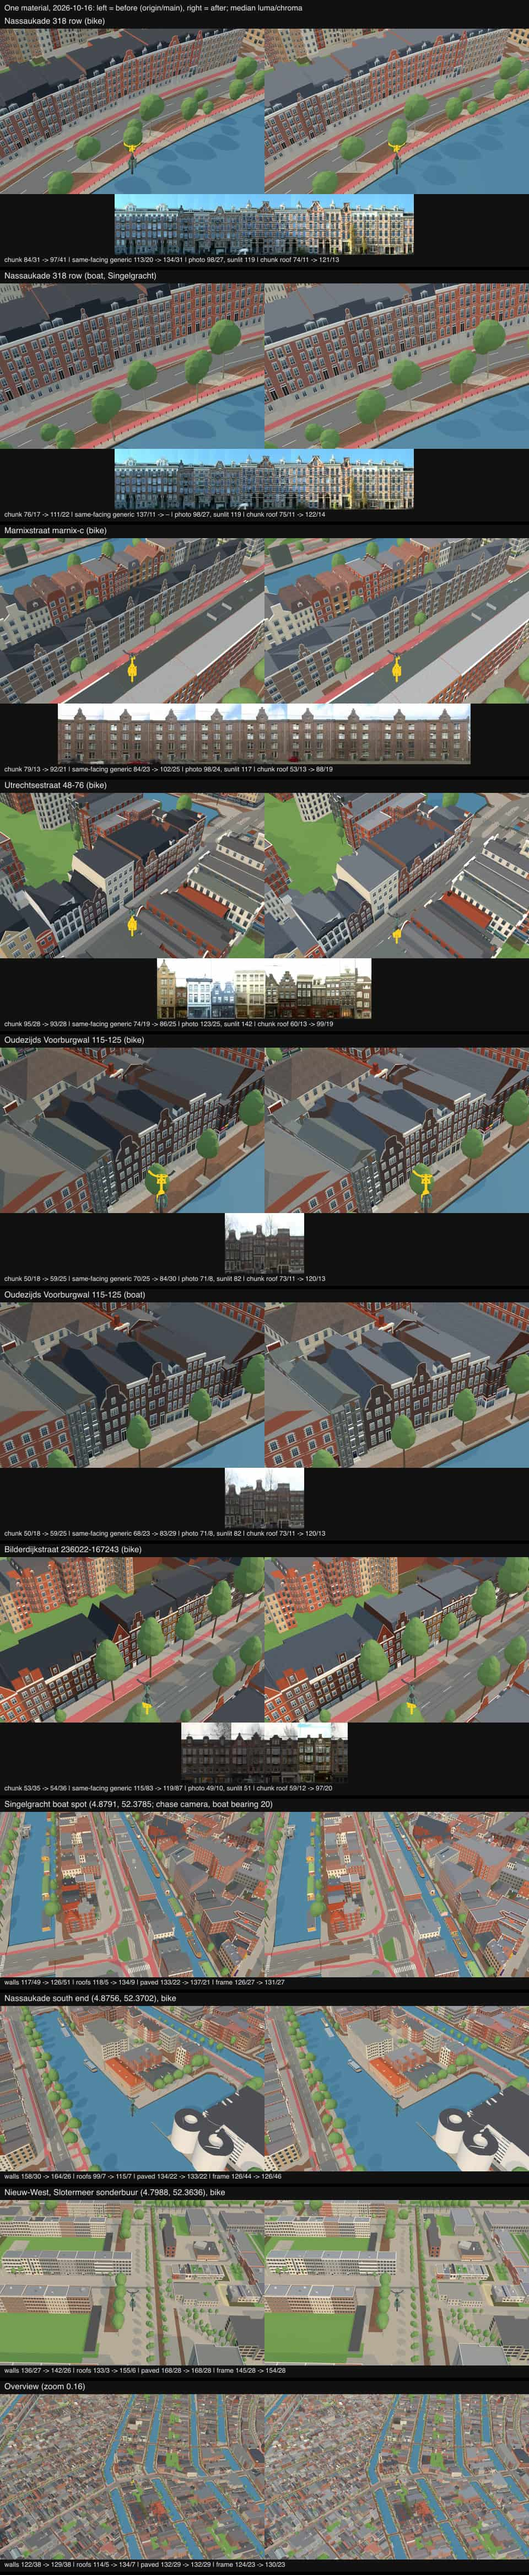
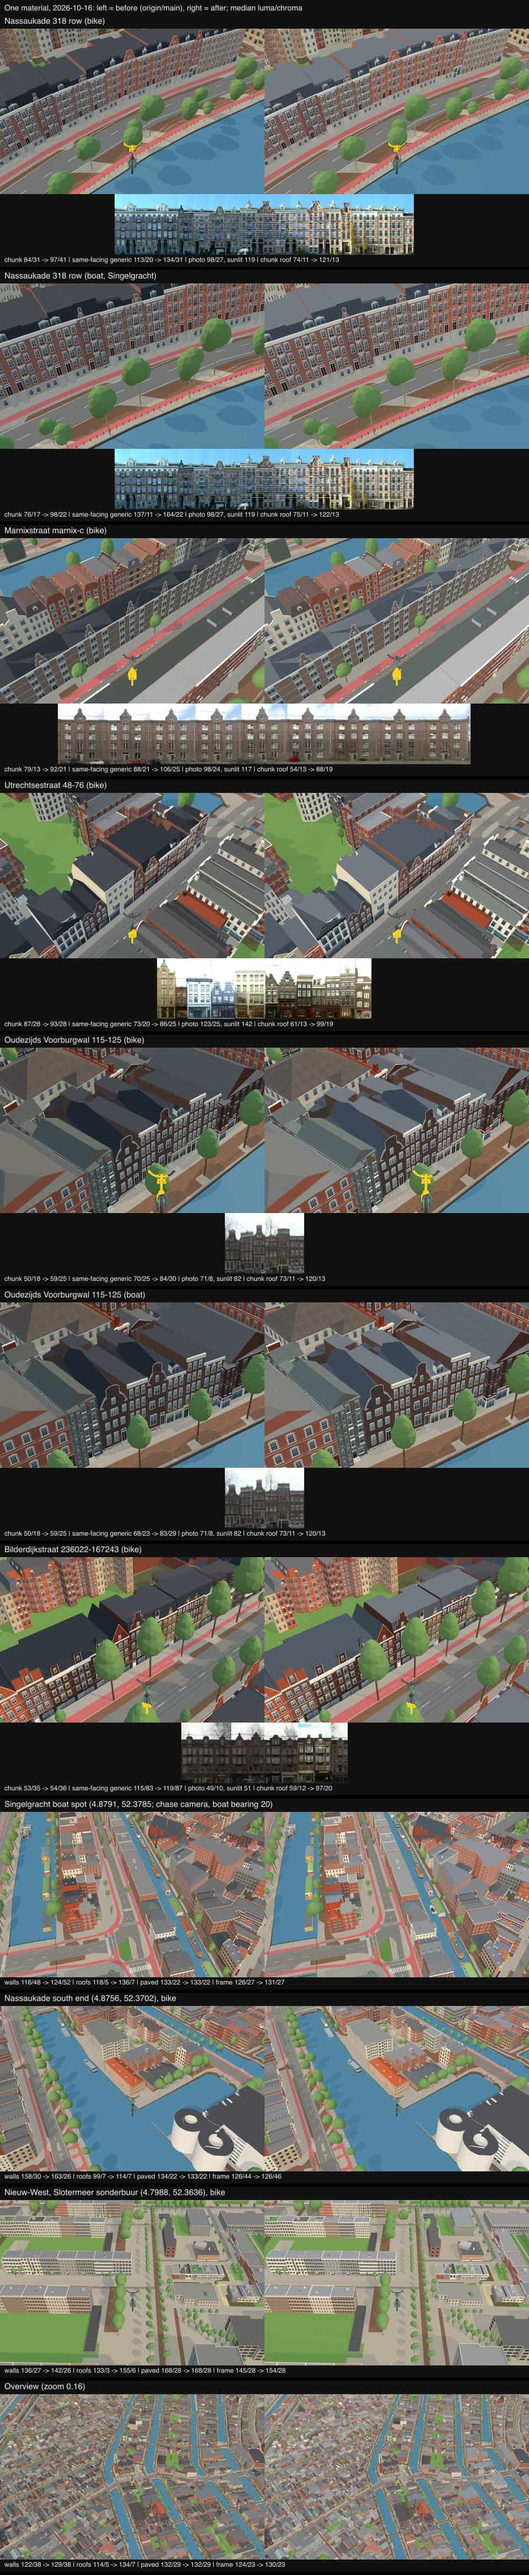
One material: frames and ride perf re-taken under the shared browser lock; doc and sheet updated

diff --git a/docs/one-material-20261016.md b/docs/one-material-20261016.md
@@ -76,15 +76,19 @@ luma × the strip's white gain (sRGB): the wall's colour in sun, facing the sun.
 | view | chunk before → after | same-facing generic before → after | after gap | photo | sunlit | chunk ÷ sunlit | roof before → after |
 |---|---|---|---|---|---|---|---|
 | Nassaukade 318, bike | 84/31 11 % → 97/41 7 % | 113/20 → 134/31 | −37 | 98/27 | 119 | 0.82 | 74 → 121 |
-| Nassaukade 318, boat | 76/17 22 % → 111/22 3 % ¹ | 137/11 → – | – | 98/27 | 119 | 0.93 | 75 → 122 |
-| Marnixstraat marnix-c, bike | 79/13 11 % → 92/21 6 % | 84/23 → 102/25 | −10 | 98/24 | 117 | 0.79 | 53 → 88 |
-| Utrechtsestraat 48-76, bike | 95/28 25 % → 93/28 8 % ¹ | 74/19 → 86/25 | +7 | 123/25 | 142 | 0.65 | 60 → 99 |
-| Oudezijds Voorburgwal 115-125, bike | 50/18 89 % → 59/25 65 % | 70/25 → 84/30 | −25 | 71/8 | 82 | 0.72 | 73 → 120 |
+| Nassaukade 318, boat | 76/17 22 % → 98/22 4 % | 137/11 → 164/22 ¹ | −66 | 98/27 | 119 | 0.82 | 75 → 122 |
+| Marnixstraat marnix-c, bike | 79/13 12 % → 92/21 6 % | 88/21 → 106/25 | −14 | 98/24 | 117 | 0.79 | 53 → 88 |
+| Utrechtsestraat 48-76, bike | 87/28 27 % → 93/28 8 % | 73/20 → 86/25 | +7 | 123/25 | 142 | 0.65 | 60 → 99 |
+| Oudezijds Voorburgwal 115-125, bike | 50/18 90 % → 59/25 65 % | 70/25 → 84/30 | −25 | 71/8 | 82 | 0.72 | 73 → 120 |
 | Oudezijds Voorburgwal 115-125, boat | 50/18 87 % → 59/25 64 % | 68/23 → 83/29 | −24 | 71/8 | 82 | 0.72 | 73 → 120 |
 | Bilderdijkstraat 236022-167243, bike (sun side) | 53/35 58 % → 54/36 58 % | 115/83 → 119/87 | −65 | 49/10 | 51 | 1.06 | 59 → 97 |
 
-¹ Run-to-run framing noise. The derived chunk albedo moved between runs (Nassaukade boat 0.18 → 0.29,
-Utrechtsestraat 0.28 → 0.20), which none of the code changes can do. Read those two rows with care.
+All frames were re-taken under the shared browser lock (`/tmp/canal-pw.sh`, one lane at a time), with the origin/main
+bundles swapped into `public/` for "before". The first, unlocked pass agreed within 1–2 luma, except for two framing
+outliers that the locked pass replaces.
+
+¹ The only generic wall facing the same way in this frame is a small corner of a pale stucco building (431 px).
+It is not a comparison.
 
 **Reading the table**
 
@@ -95,8 +99,9 @@ Utrechtsestraat 0.28 → 0.20), which none of the code changes can do. Read thos
   - The chunk's albedo is its photo's. Oudezijds Voorburgwal's chunk albedo is 0.079 (sRGB 79), against a sunlit
     photo of 82.
   - The generic walls there are period priors, not measurements. "Chunk within 10 of neighbour" is met only where
-    the colours are alike: Marnixstraat −10, Utrechtsestraat +7.
-- Target of ≥ 0.9 of the sunlit photo: met on the sun side (Bilderdijkstraat 1.06). On shade sides it is 0.65–0.82.
+    the colours are alike: Utrechtsestraat +7, Marnixstraat −14 (albedo 0.19 vs 0.26).
+- Target of ≥ 0.9 of the sunlit photo: met on the sun side (Bilderdijkstraat 1.06). On shade sides it is 0.65–0.82
+  (was 0.61–0.71).
   At ratio 0.55 the rig's shade cap is 0.77 sRGB. Reaching 0.9 on a shade side would need a ratio near 0.8, which is
   close to overcast light with no visible sun/shade.
 
@@ -104,15 +109,15 @@ Utrechtsestraat 0.28 → 0.20), which none of the code changes can do. Read thos
 
 | place | walls | roofs | paved | frame |
 |---|---|---|---|---|
-| Singelgracht boat spot | 117/49 → 126/51 | 118/5 → 134/9 | 133/22 → 137/21 | 126/27 → 131/27 |
-| Nassaukade south end (bike) | 158/30 → 164/26 | 99/7 → 115/7 | 134/22 → 133/22 | 126/44 → 126/46 |
+| Singelgracht boat spot | 116/48 → 124/52 | 118/5 → 136/7 | 133/22 → 133/22 | 126/27 → 131/27 |
+| Nassaukade south end (bike) | 158/30 → 163/26 | 99/7 → 114/7 | 134/22 → 133/22 | 126/44 → 126/46 |
 | Nieuw-West, Slotermeer (bike) | 136/27 → 142/26 | 133/3 → 155/6 | 168/28 → 168/28 | 145/28 → 154/28 |
 | Overview (zoom 0.16) | 122/38 → 129/38 | 114/5 → 134/7 | 132/29 → 132/29 | 124/23 → 130/23 |
 
 The city reads sunnier, not greyer:
 
-- Walls are +6 to +9 luma, with chroma held.
-- Roofs are +16 to +22, with chroma up 2–4. The near-black slate patches are gone.
+- Walls are +5 to +8 luma, with chroma held.
+- Roofs are +15 to +22, with chroma up 0–3. The near-black slate patches are gone.
 - The ground is within ±1, except one road reading at Nieuw-West.
 - Nothing clips: white membrane 222 draws about 233.
 
@@ -131,3 +136,19 @@ The city reads sunnier, not greyer:
 Keep it held. Its walls are now drawn at its photo's colour, and that colour is soot-dark brick: 71/8 overcast, 82
 sunlit. On the shade side it is 59 luma, with 64–65 % of wall pixels under luma 60. The photo has 29 %, and the
 bound is the photo + 10. The generic draw at the same pixels was darker than the chunk before this change.
+
+## Ride perf (desktop, `PERF_RIDE=1`, alone under the browser lock, load 6)
+
+5/5 within budget.
+
+| variant | frame interval median/p95 | map render median/p95 | three.js median | heap | landmarks shown |
+|---|---|---|---|---|---|
+| default | 16.7/16.7 | 2.3/5.2 | 0.8 | 1,047 MB | 76 |
+| landmarks off | 16.7/16.7 | 2.2/4.5 | 0.6 | 909 MB | 53 |
+| all landmarks resident | 16.7/16.8 | 3.9/6.6 | 1.8 | 1,137 MB | 486 |
+| default (repeat) | 16.7/16.8 | 2.3/5.0 | 0.9 | 874 MB | 76 |
+
+Motion stutter: p95 16.7 ms, p99 16.8 ms, 2 frames over 50 ms, 0 over 100 ms, longest 66.7 ms.
+
+Earlier unlocked runs were taken at load 40–110 and are void. They failed the map-render budget on origin/main's
+bundles and on this lane's alike.
